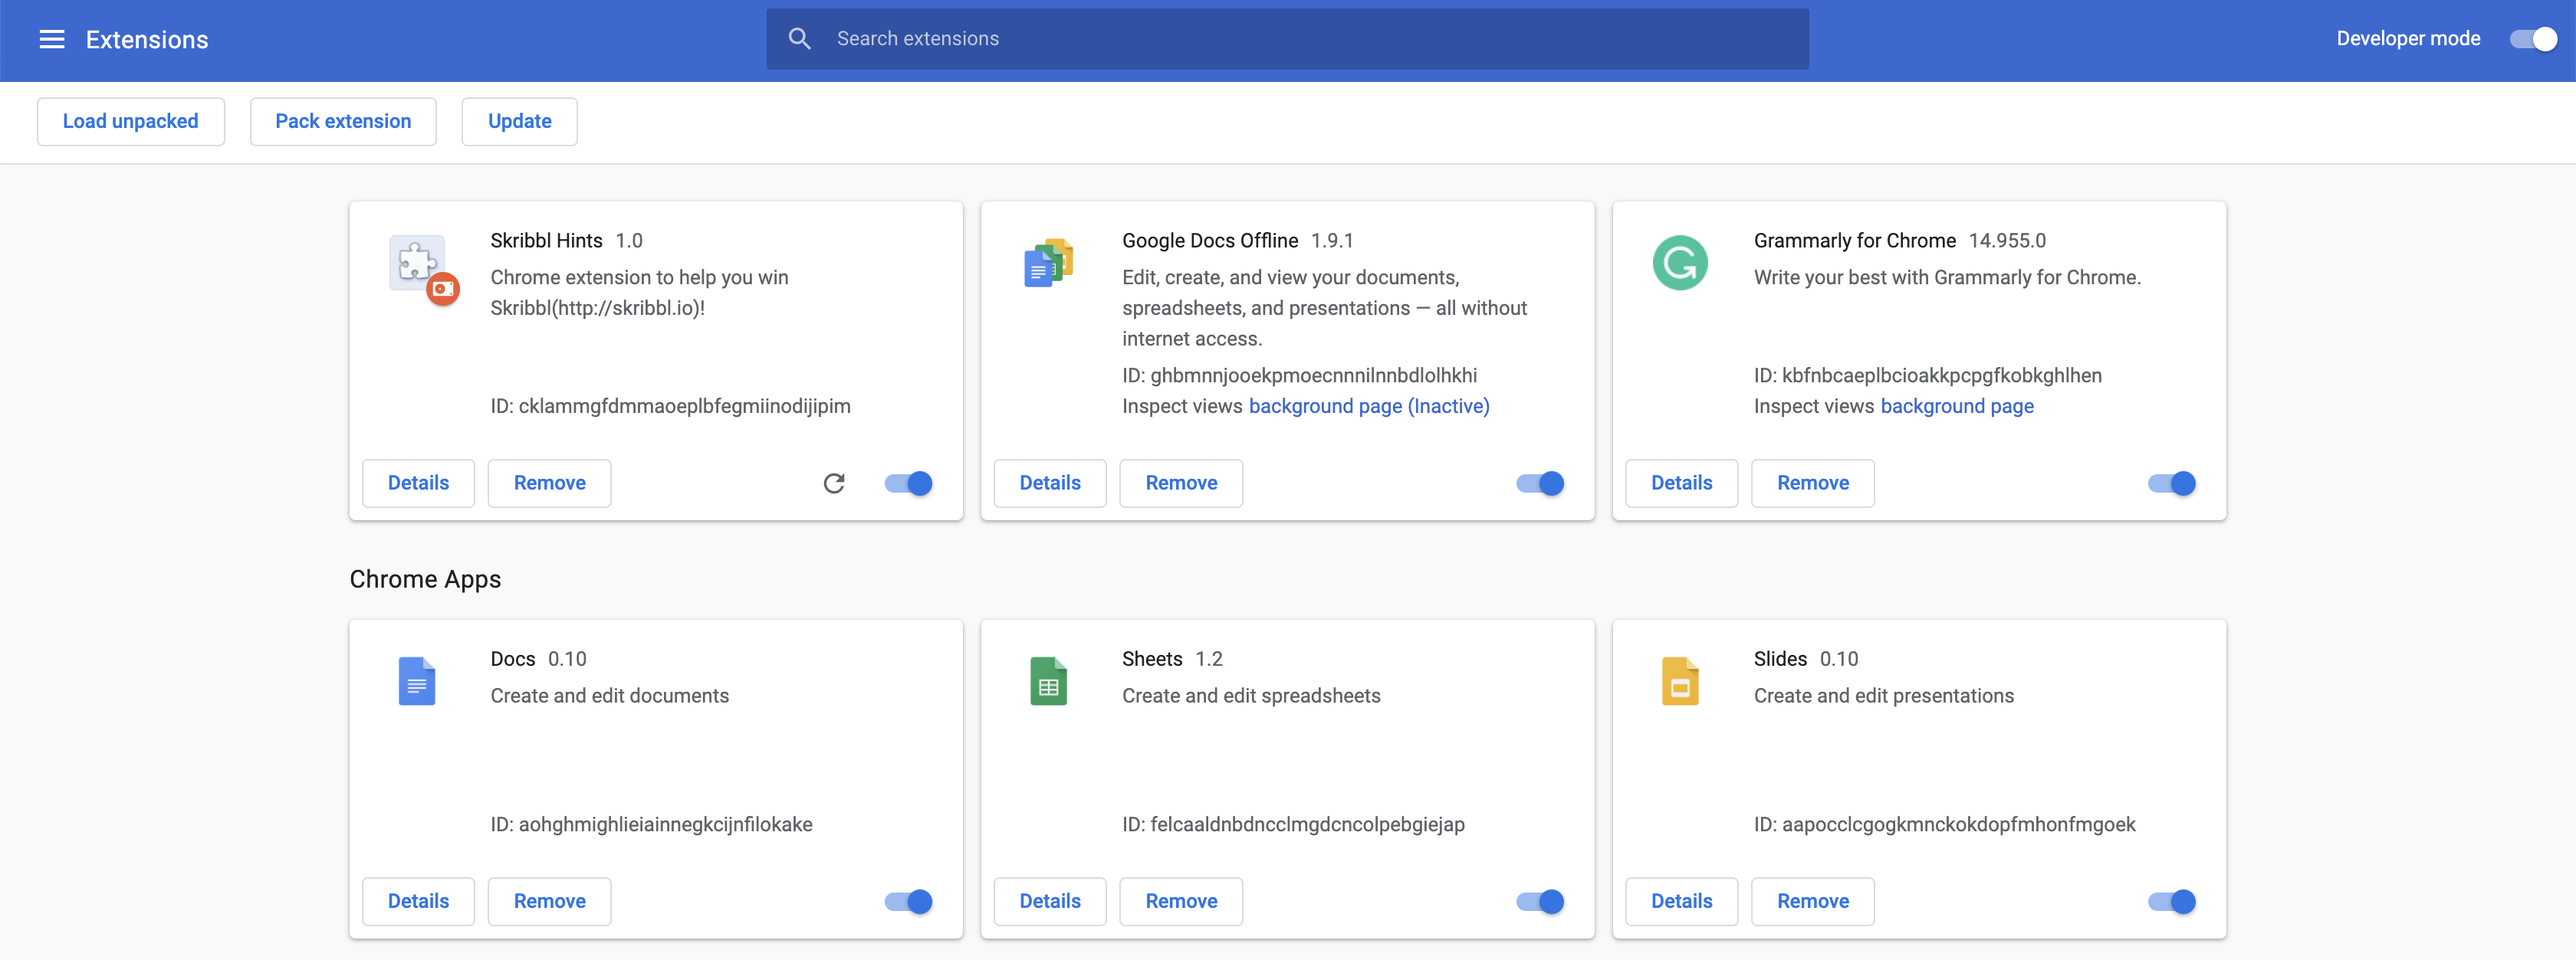
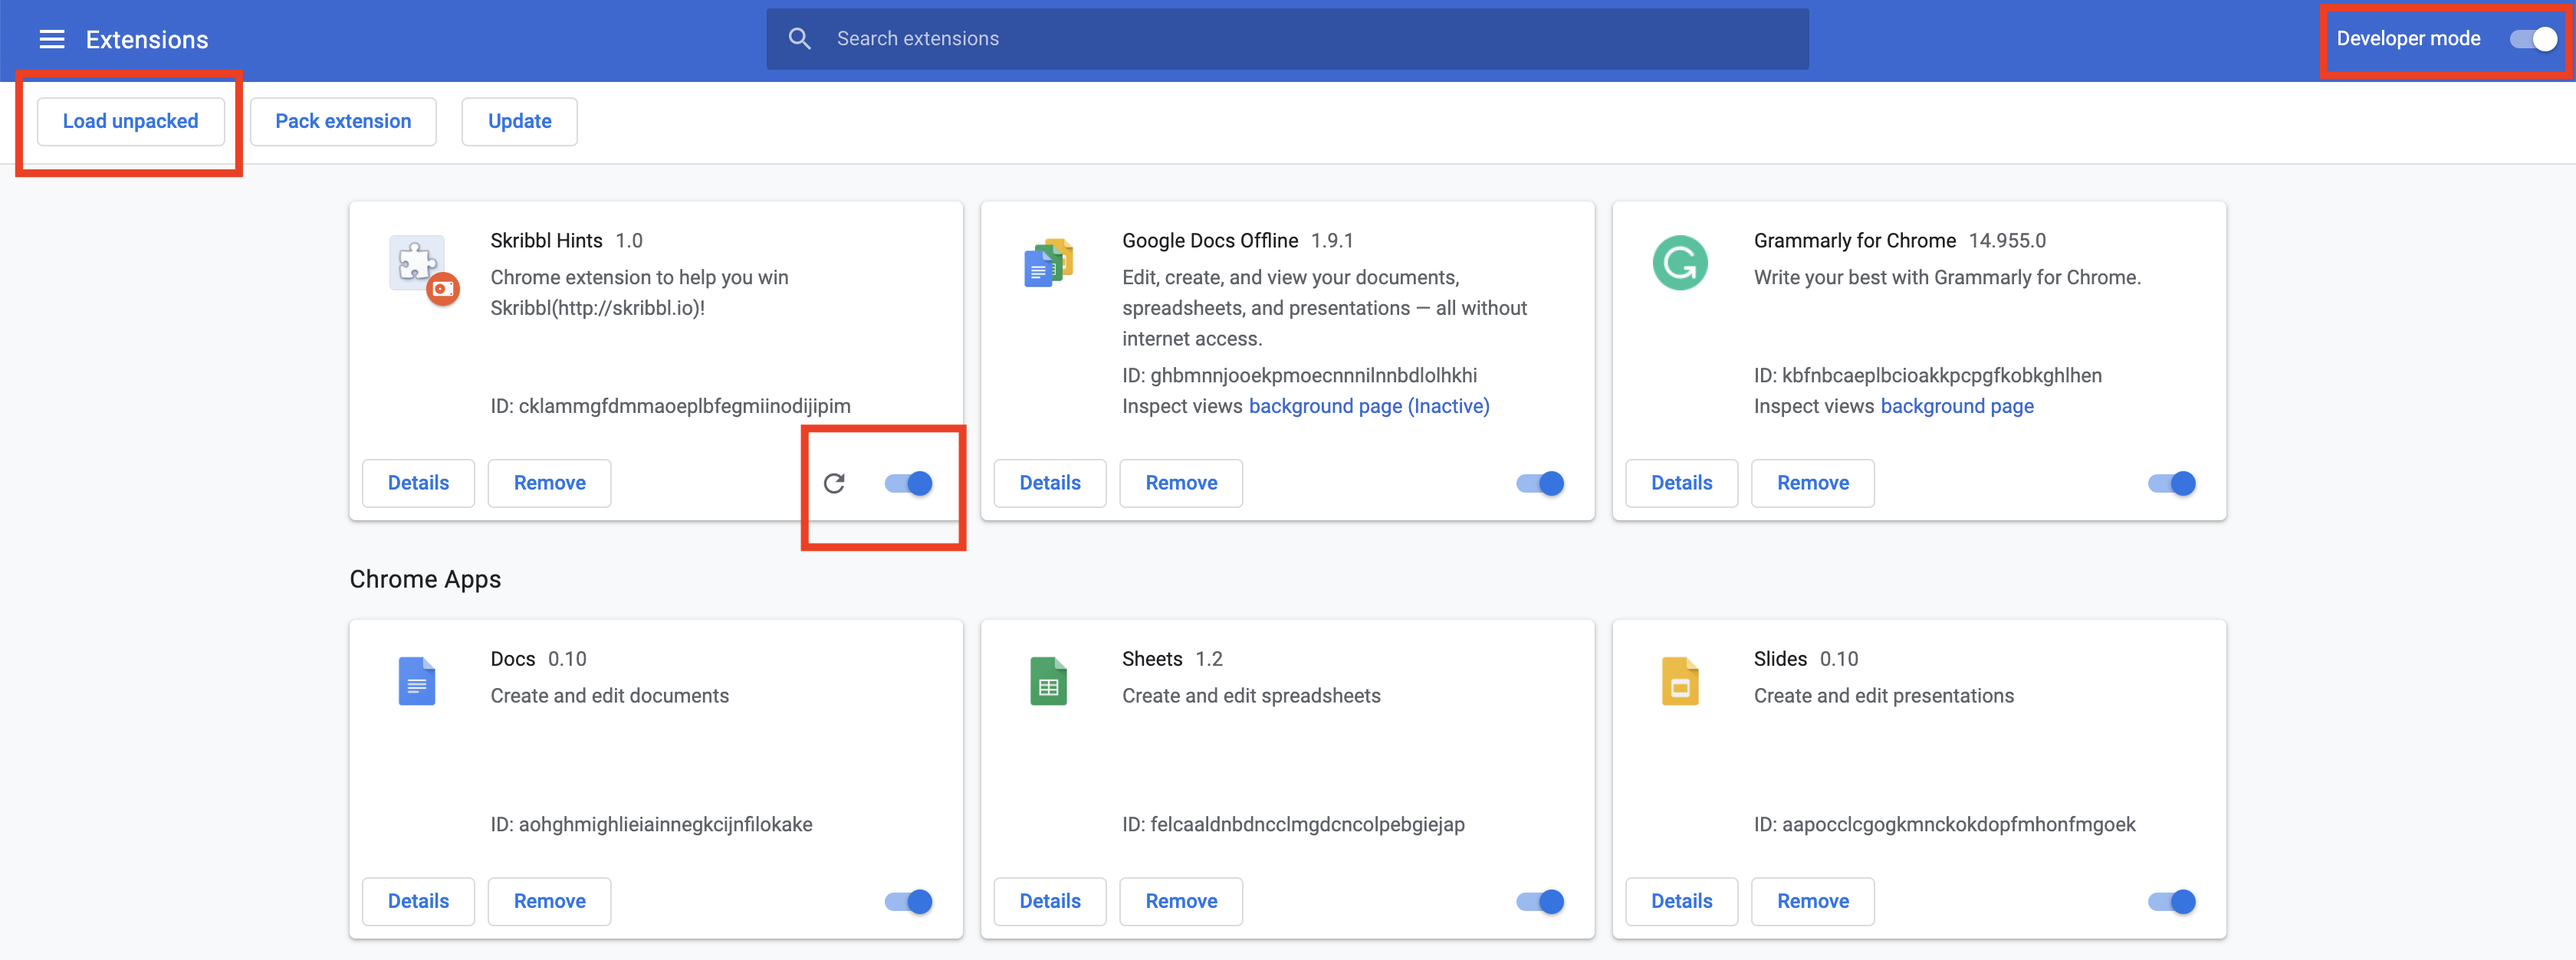
readme updated

diff --git a/README.md b/README.md
@@ -4,12 +4,13 @@ SkribblHints is a chrome extension that gives you hints while playing [Skribbl](
 ![Screenshot](/images/screenshot.png)
 
 ## Setup
-1. Open the Extension Management page by navigating to chrome://extensions.
+1. [Download](https://github.com/betab0t/SkribblHints/archive/master.zip) and extract the files.
+2. Open the Extension Management page by navigating to chrome://extensions.
   * The Extension Management page can also be opened by clicking on the Chrome menu, hovering over More Tools then selecting Extensions.
 
-2. Enable Developer Mode by clicking the toggle switch next to Developer mode.
-3. Click the LOAD UNPACKED button and select the extension directory.
+3. Enable Developer Mode by clicking the toggle switch next to Developer mode.
+4. Click the LOAD UNPACKED button and select the extension directory.
 
 ![Screenshot](/images/extensions.png)
 
-4. Goto http://skribbl.io and start playing!
+5. Goto http://skribbl.io and start playing!
